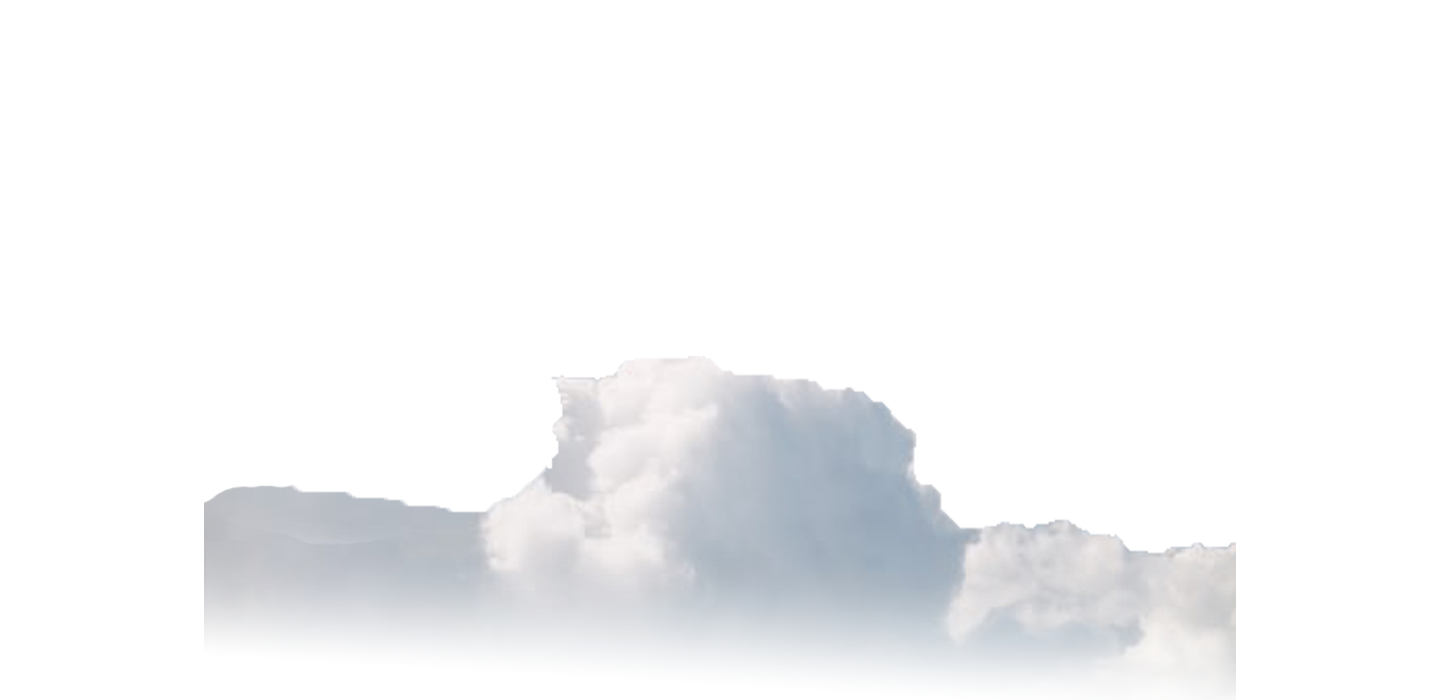
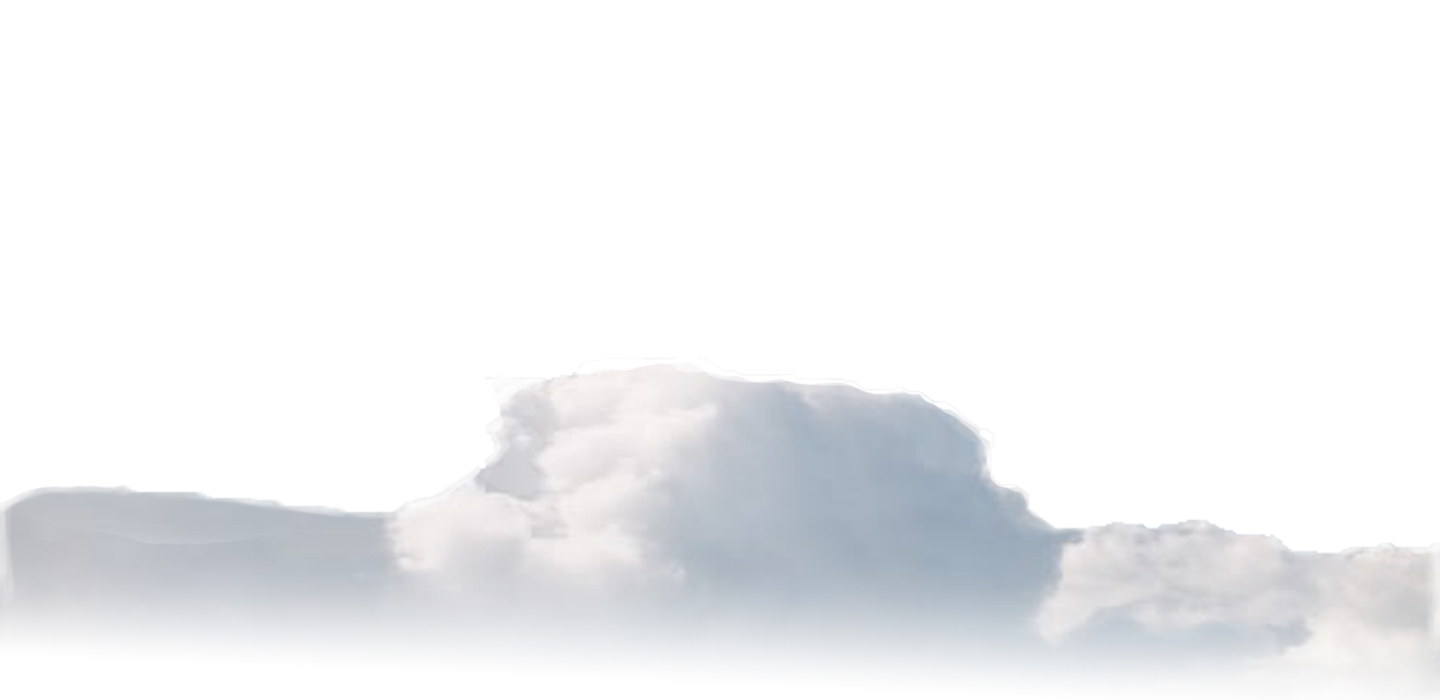
[Update] index.html background
Former-commit-id: e84504ec7d49a47df0ea68d4bf8ebeb1c67fb57e

diff --git a/app/static/css/style.css b/app/static/css/style.css
@@ -291,13 +291,13 @@ a:active{color: white;}
     font-size: 85px;
     font-weight: 800;
     margin: 0;
-
+    
     display: flex;
     flex-direction: column;
     justify-content: center;
     animation: fadein 2.5s;
 
-    transform: translateZ(-200px) scale(2);
+    transform: translateZ(-300px) scale(2);
 }
 .symbol2{
     color: #110B39;
@@ -312,18 +312,37 @@ a:active{color: white;}
 #intro{
     z-index: 0;
 }
+#l_cloud{
+    /* top: -90px; */
+    transform: translateZ(50px);
+}
+#r_cloud{
+    z-index: -1;
+    transform: translateZ(50px);
+}
 #group-1{
-    background-color: #d0eaff;
+    background: url("../image/background.png");
 }
 /*--------intro cloud--------*/
-.intro_cloud{
+.index_cloud{
     width: 100%;
+    height: 90vh;
     opacity: 90%;
     overflow: hidden;
-    position: relative;
     display: flex;
+    flex-direction: column;
+    justify-content: center;
+
+    transform: translateZ(-200px);
+            /* translateY(100px); */
 }
-.intro_cloud img{
+.l_cloud{
+    width: 100%;
+    height: 100%;
+    position: relative;
+    object-fit: cover;
+}
+.r_cloud{
     width: 100%;
     height: 100%;
     position: absolute;
@@ -374,8 +393,8 @@ a:active{color: white;}
 
     top: 490px;
     right: 350px;
-	-webkit-animation: text-blur-out 2.5s ease-out 1s both infinite;
-    animation: text-blur-out 2.5s ease-out 1s both infinite;
+	-webkit-animation: text-blur-out 2.5s ease-out 2.5s both infinite;
+    animation: text-blur-out 2.5s ease-out 2.5s both infinite;
 }
 .virus_blur2{
     width: 150px;
@@ -384,8 +403,8 @@ a:active{color: white;}
 
     top: 400px;
     left: 150px;
-	-webkit-animation: text-blur-out 3s ease-out both infinite;
-    animation: text-blur-out 3s ease-out both infinite;
+	-webkit-animation: text-blur-out 3s ease-out 1s both infinite;
+    animation: text-blur-out 3s ease-out 1s both infinite;
 }
 .virus_blur3{
     width: 132px;

diff --git a/app/templates/index.html b/app/templates/index.html
@@ -20,10 +20,10 @@
         <div class="intro_group life_w_covid" id="intro"> <!--group-->
             <p class="intro_symbol symbol1">Life with<br>COVID</p> <!--layer-->
         </div>
-        <div class="index_cloud">
-            <img src="../static/image/index_l_cloud.png" alt="l_cloud" class="l_cloud">
-            <img src="../static/image/index_r_cloud.png" alt="l_cloud" class="r_cloud">
-        </div>
+        <!-- <div class="intro_group index_cloud">
+            <img src="../static/image/index_l_cloud.png" alt="l_cloud" id="l_cloud" class="intro_symbol">
+            <img src="../static/image/index_r_cloud.png" alt="l_cloud" id="r_cloud" class="intro_symbol">
+        </div> -->
         <div class="intro_group and_beyond" id="group-1">
             <p class="intro_symbol symbol2">and<br>Beyond</p>
         </div>
